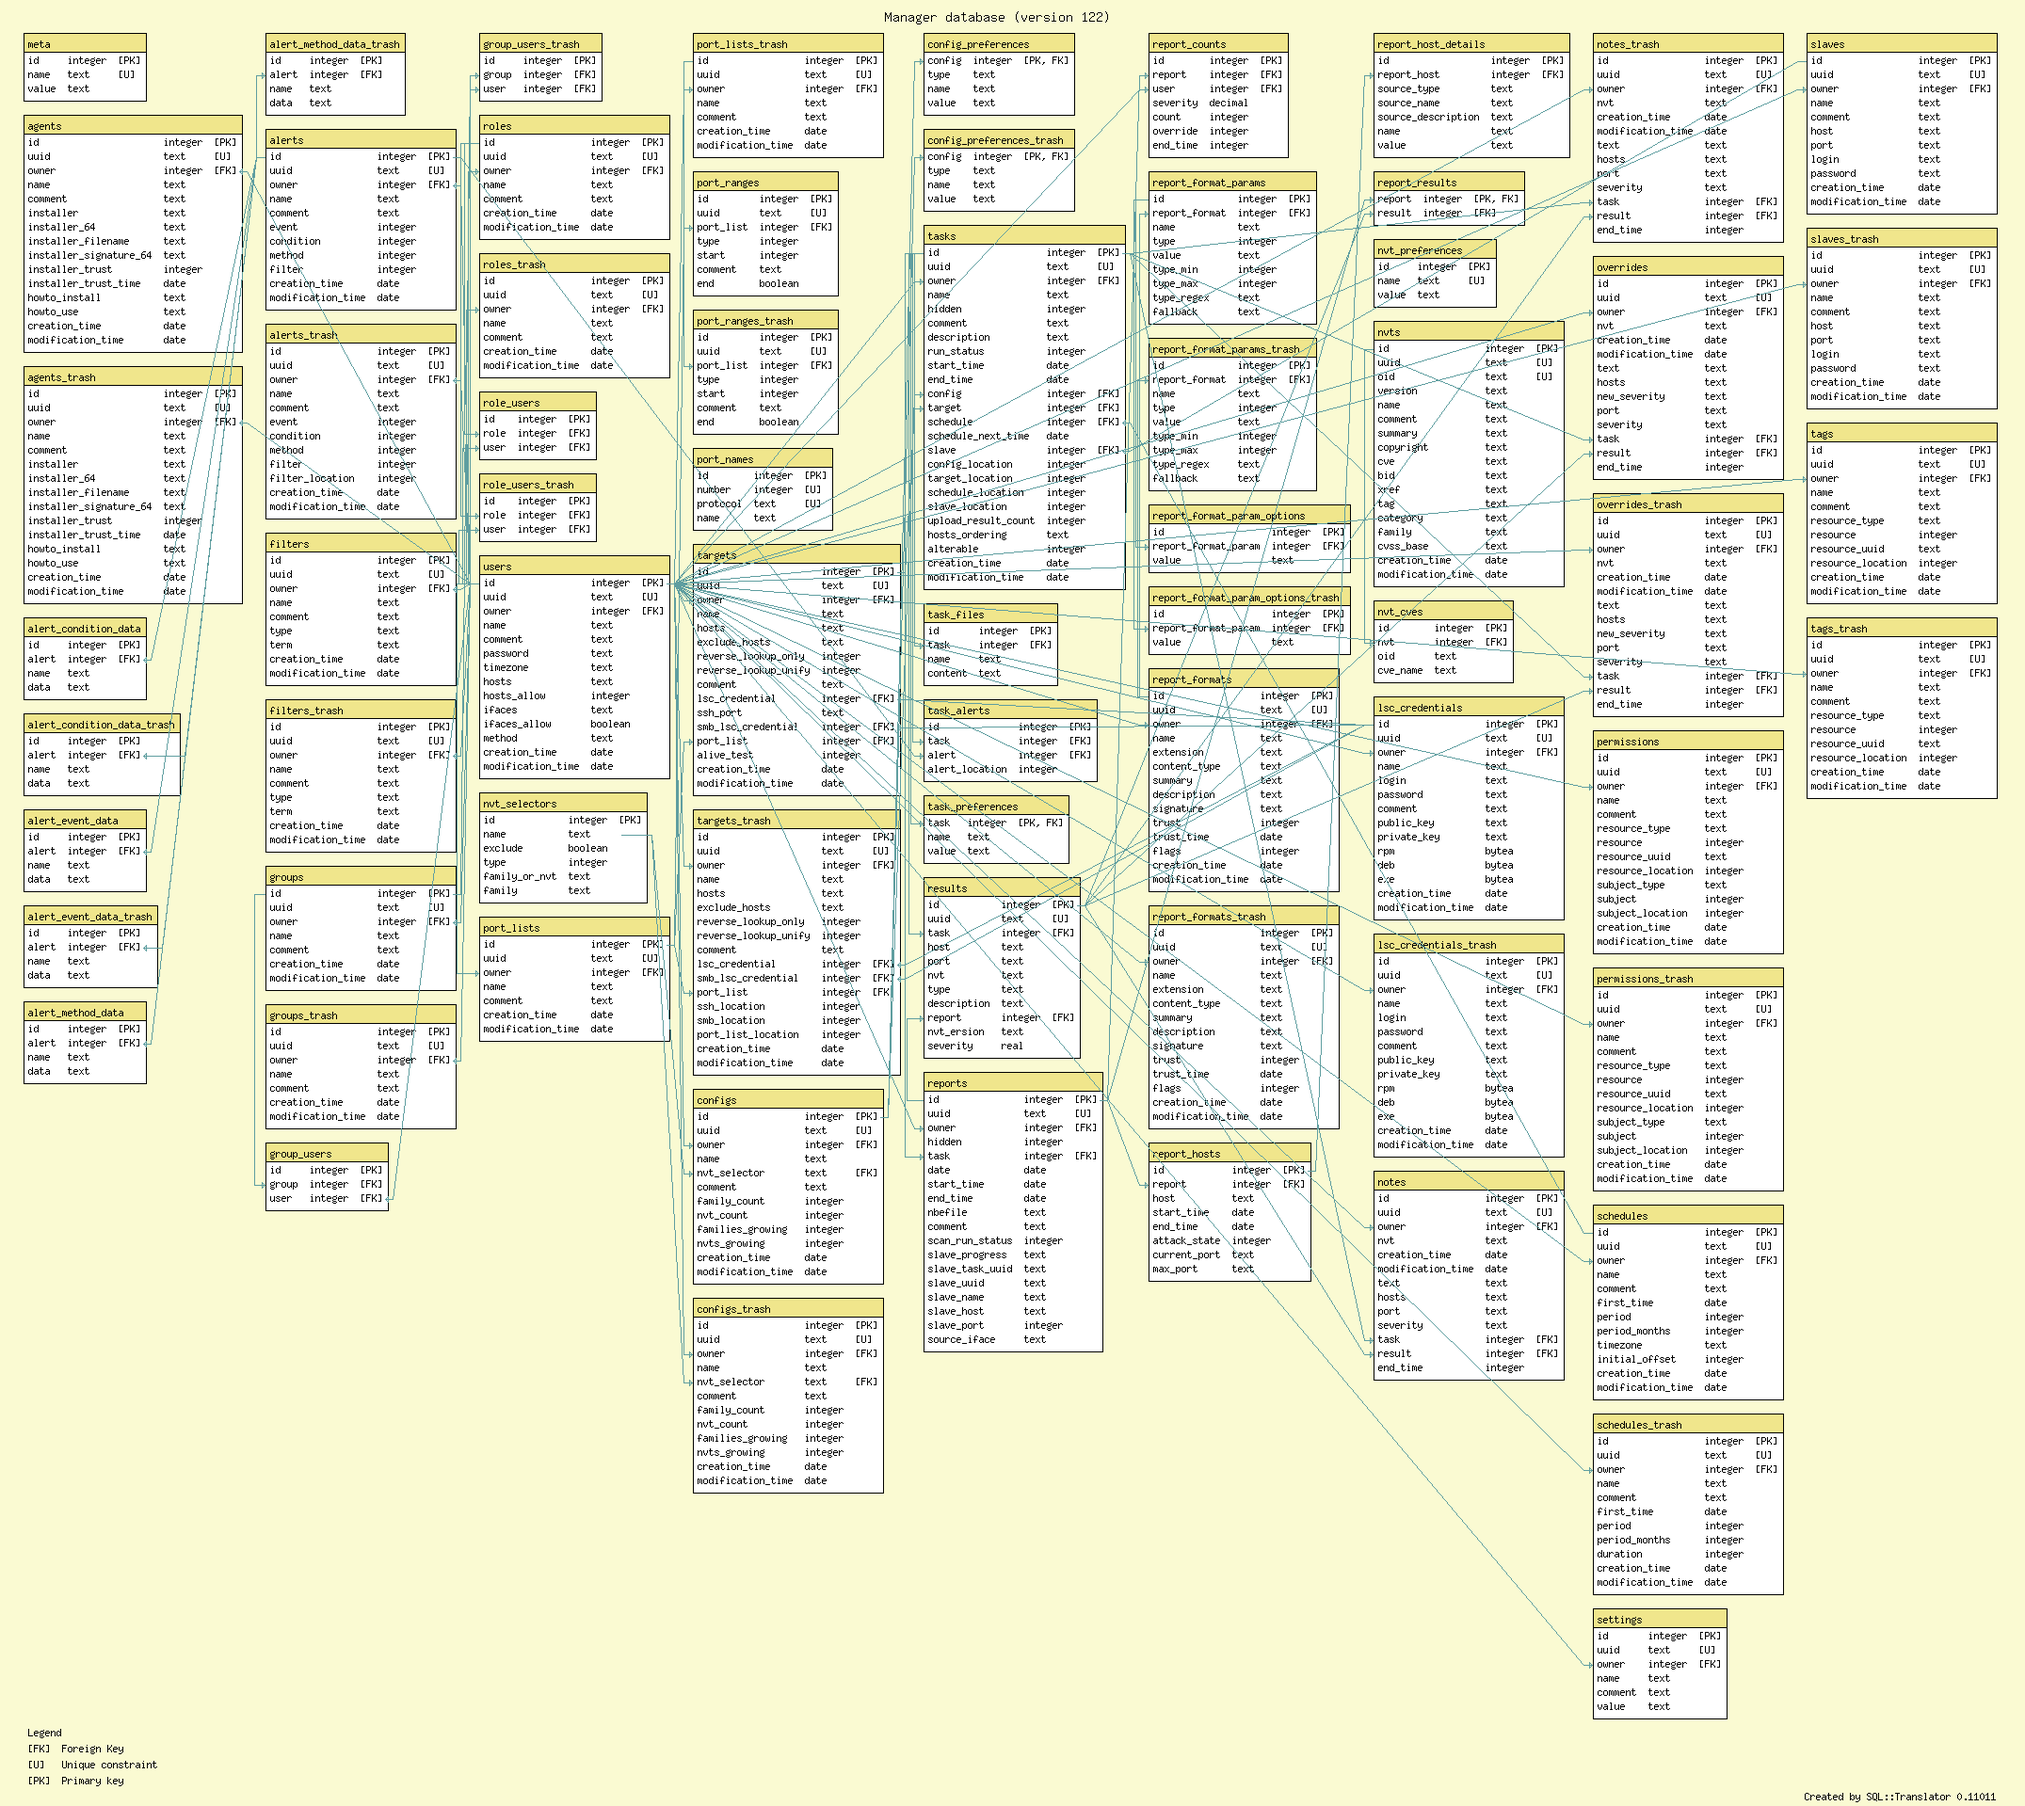
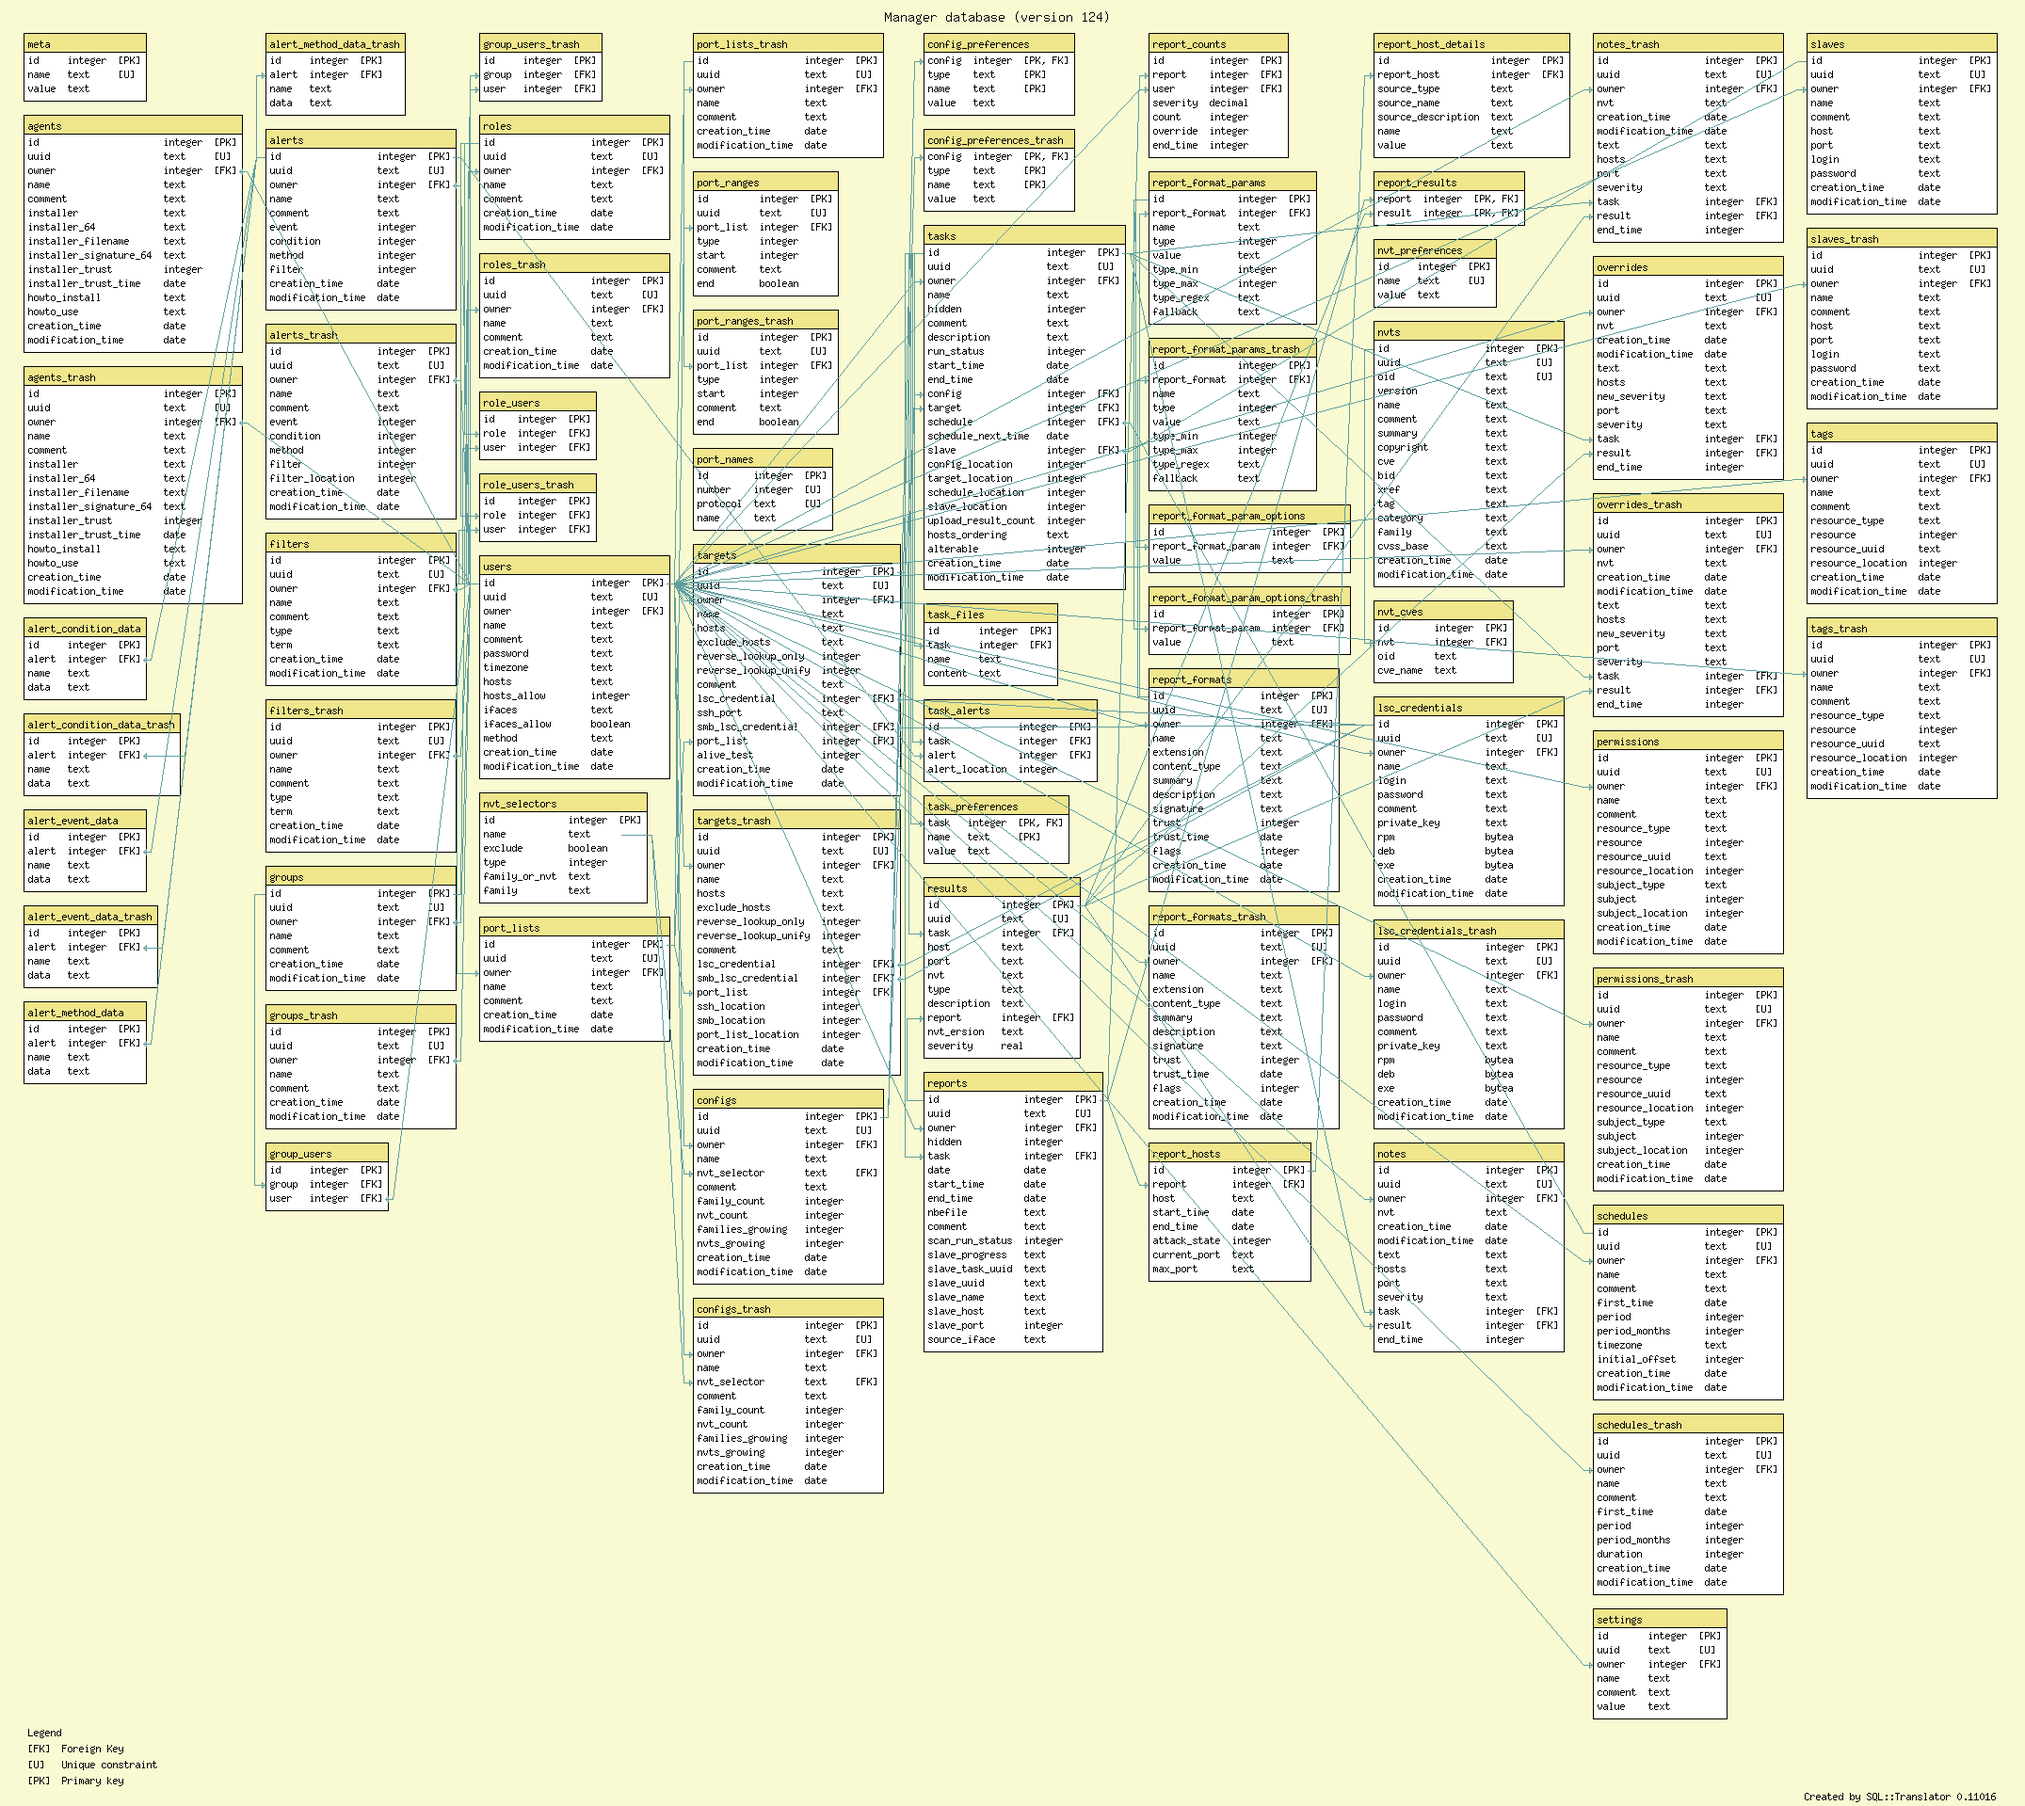
Finish removal of public_key column from lsc_credentials table. Hence increase database version to 124.  Add database migration from version 123 to 124.
* CMakeLists.txt (OPENVASMD_DATABASE_VERSION): Increase to 124.

* src/manage_migrators.c (migrate_123_to_124): New function.
(database_migrators): Add migrate_123_to_124.

* src/manage.c (slave_setup): Adjust omp_create_lsc_credential_key() call.

* doc/db_postgres.sql, doc/db.png: Update documentation for table column
removal.

* src/schema_formats/XML/OMP.xml, doc/omp.html, doc/omp.rnc: Update
documentation for public_key element removal in create_lsc_credential
command.

git-svn-id: svn+ssh://scm.wald.intevation.org/openvas/trunk/openvas-manager@19384 423fd1db-d629-0410-8442-d21db03e70f4

Changed region(s): [[0.6541, 0.6149, 0.7787, 0.7071], [0.6541, 0.4919, 0.7787, 0.5534], [0.6541, 0.7379, 0.7787, 0.7686]]

diff --git a/doc/omp.html b/doc/omp.html
@@ -6143,11 +6143,6 @@ create_group_users
               <div style="margin-left: 15px; display: inline;">Private key.</div>
 <ul style="list-style: none"></ul>
 </li>
-<li>
-              &lt;<b>public</b>&gt;
-              <div style="margin-left: 15px; display: inline;">Public key.</div>
-<ul style="list-style: none"></ul>
-</li>
 </ul>
 </li>
 <li>
@@ -6215,7 +6210,6 @@ create_lsc_credential_key
      {
        create_lsc_credential_key_phrase
        &amp; create_lsc_credential_key_private
-       &amp; create_lsc_credential_key_public
      }
 
 create_lsc_credential_key_phrase
@@ -6226,12 +6220,6 @@ create_lsc_credential_key_phrase
 
 create_lsc_credential_key_private
  = element private
-     {
-       text
-     }
-
-create_lsc_credential_key_public
- = element public
      {
        text
      }

diff --git a/src/manage_migrators.c b/src/manage_migrators.c
@@ -9076,6 +9076,69 @@ migrate_122_to_123 ()
 }
 
 /**
+ * @brief Migrate the database from version 123 to version 124.
+ *
+ * @return 0 success, -1 error.
+ */
+int
+migrate_123_to_124 ()
+{
+  sql ("BEGIN EXCLUSIVE;");
+
+  /* Ensure that the database is currently version 123. */
+
+  if (manage_db_version () != 123)
+    {
+      sql ("ROLLBACK;");
+      return -1;
+    }
+
+  /* Update the database. */
+
+  /* Rename lsc_credentials tables. */
+  sql ("ALTER TABLE lsc_credentials RENAME TO lsc_credentials_123;");
+  sql ("ALTER TABLE lsc_credentials_trash RENAME TO lsc_credentials_trash_123;");
+
+  /* Create new ones without public_key. */
+  sql ("CREATE TABLE IF NOT EXISTS lsc_credentials"
+       " (id INTEGER PRIMARY KEY, uuid UNIQUE, owner INTEGER, name,"
+       "  login, password, comment, private_key, rpm, deb, exe,"
+       "  creation_time, modification_time);");
+  sql ("CREATE TABLE IF NOT EXISTS lsc_credentials_trash"
+       " (id INTEGER PRIMARY KEY, uuid UNIQUE, owner INTEGER, name,"
+       "  login, password, comment, private_key, rpm, deb, exe,"
+       "  creation_time, modification_time);");
+
+  /* Migrate old data to new tables. */
+  sql ("INSERT INTO lsc_credentials"
+       " (id, uuid, owner , name, login, password, comment, private_key, rpm,"
+       "  deb, exe, creation_time, modification_time)"
+       " SELECT id, uuid, owner, name, login, password, comment, private_key,"
+       "  rpm, deb, exe, creation_time, modification_time"
+       " FROM lsc_credentials_123;");
+
+  sql ("INSERT INTO lsc_credentials_trash"
+       " (id, uuid, owner , name, login, password, comment, private_key, rpm,"
+       "  deb, exe, creation_time, modification_time)"
+       " SELECT id, uuid, owner, name, login, password, comment, private_key,"
+       "  rpm, deb, exe, creation_time, modification_time"
+       " FROM lsc_credentials_123;");
+
+  /* Delete old tables. */
+  sql ("DROP TABLE lsc_credentials_123;");
+  sql ("DROP TABLE lsc_credentials_trash_123;");
+
+  /* Set the database version 124. */
+
+  set_db_version (124);
+
+  sql ("COMMIT;");
+
+  return 0;
+
+}
+
+/**
  * @brief Array of database version migrators.
  */
 static migrator_t database_migrators[]
@@ -9203,6 +9266,7 @@ static migrator_t database_migrators[]
     {121, migrate_120_to_121},
     {122, migrate_121_to_122},
     {123, migrate_122_to_123},
+    {124, migrate_123_to_124},
     /* End marker. */
     {-1, NULL}};
 

diff --git a/src/manage.c b/src/manage.c
@@ -2141,7 +2141,7 @@ slave_setup (slave_t slave, gnutls_session_t *session, int *socket,
 
               if (private_key)
                 ret = omp_create_lsc_credential_key
-                       (session, name, user, password, NULL, private_key,
+                       (session, name, user, password, private_key,
                         "Slave SSH credential created by Master",
                         &slave_ssh_credential_uuid);
               else
